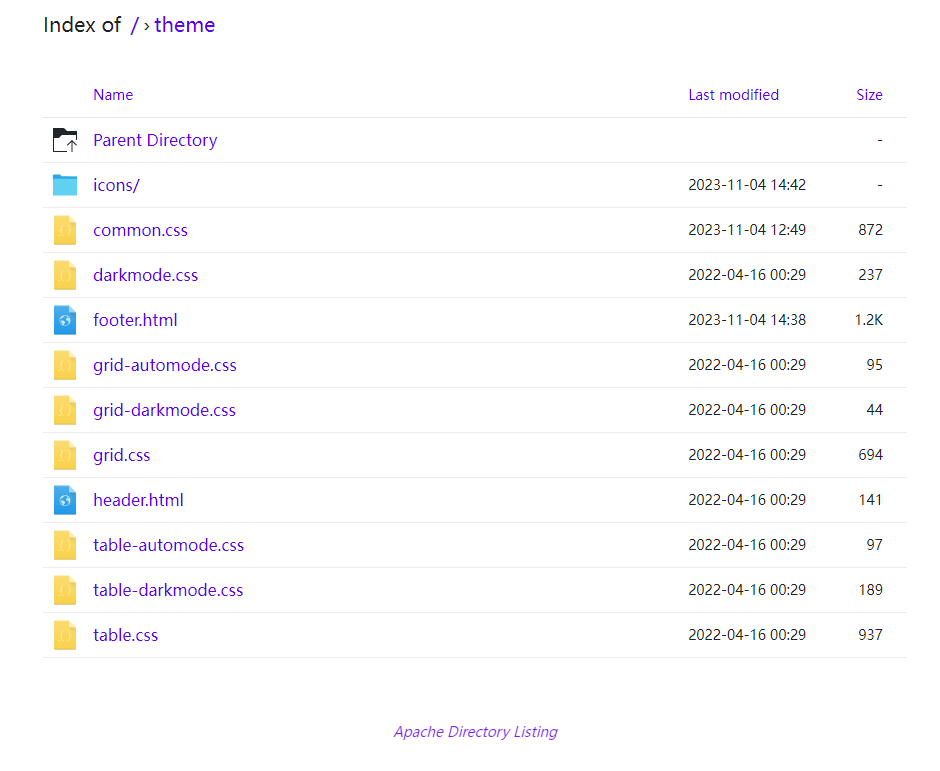
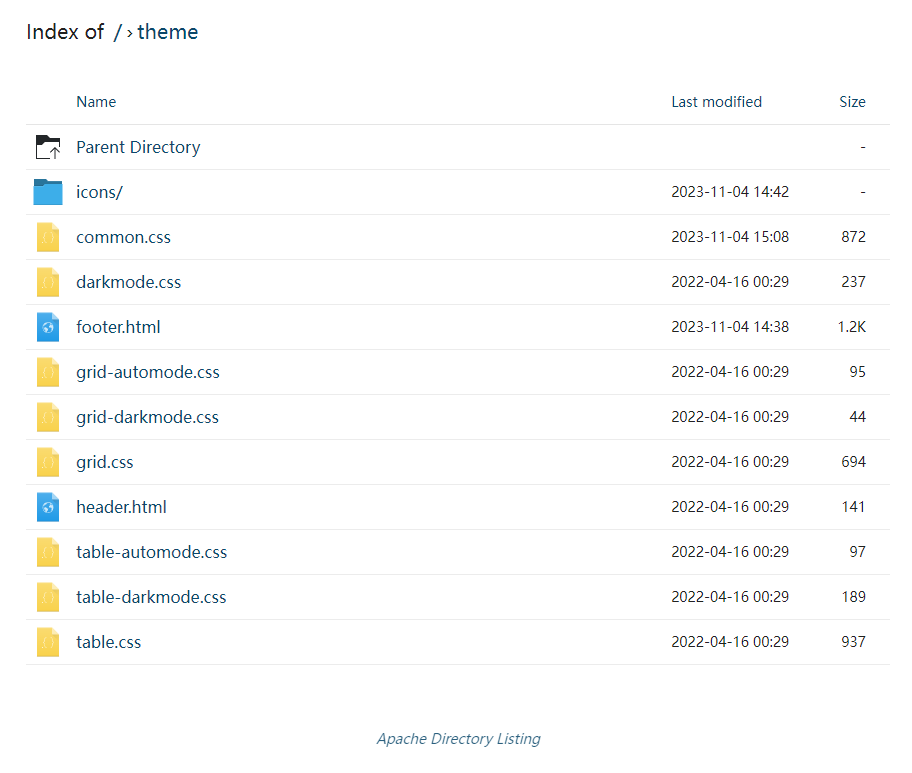
change color

diff --git a/theme/common.css b/theme/common.css
@@ -16,7 +16,7 @@ body {
 }
 
 a {
-  color: #6200ea;
+  color: #0B486B;
   display: inline-block;
   text-decoration: none;
   border-bottom: 1px solid transparent;
